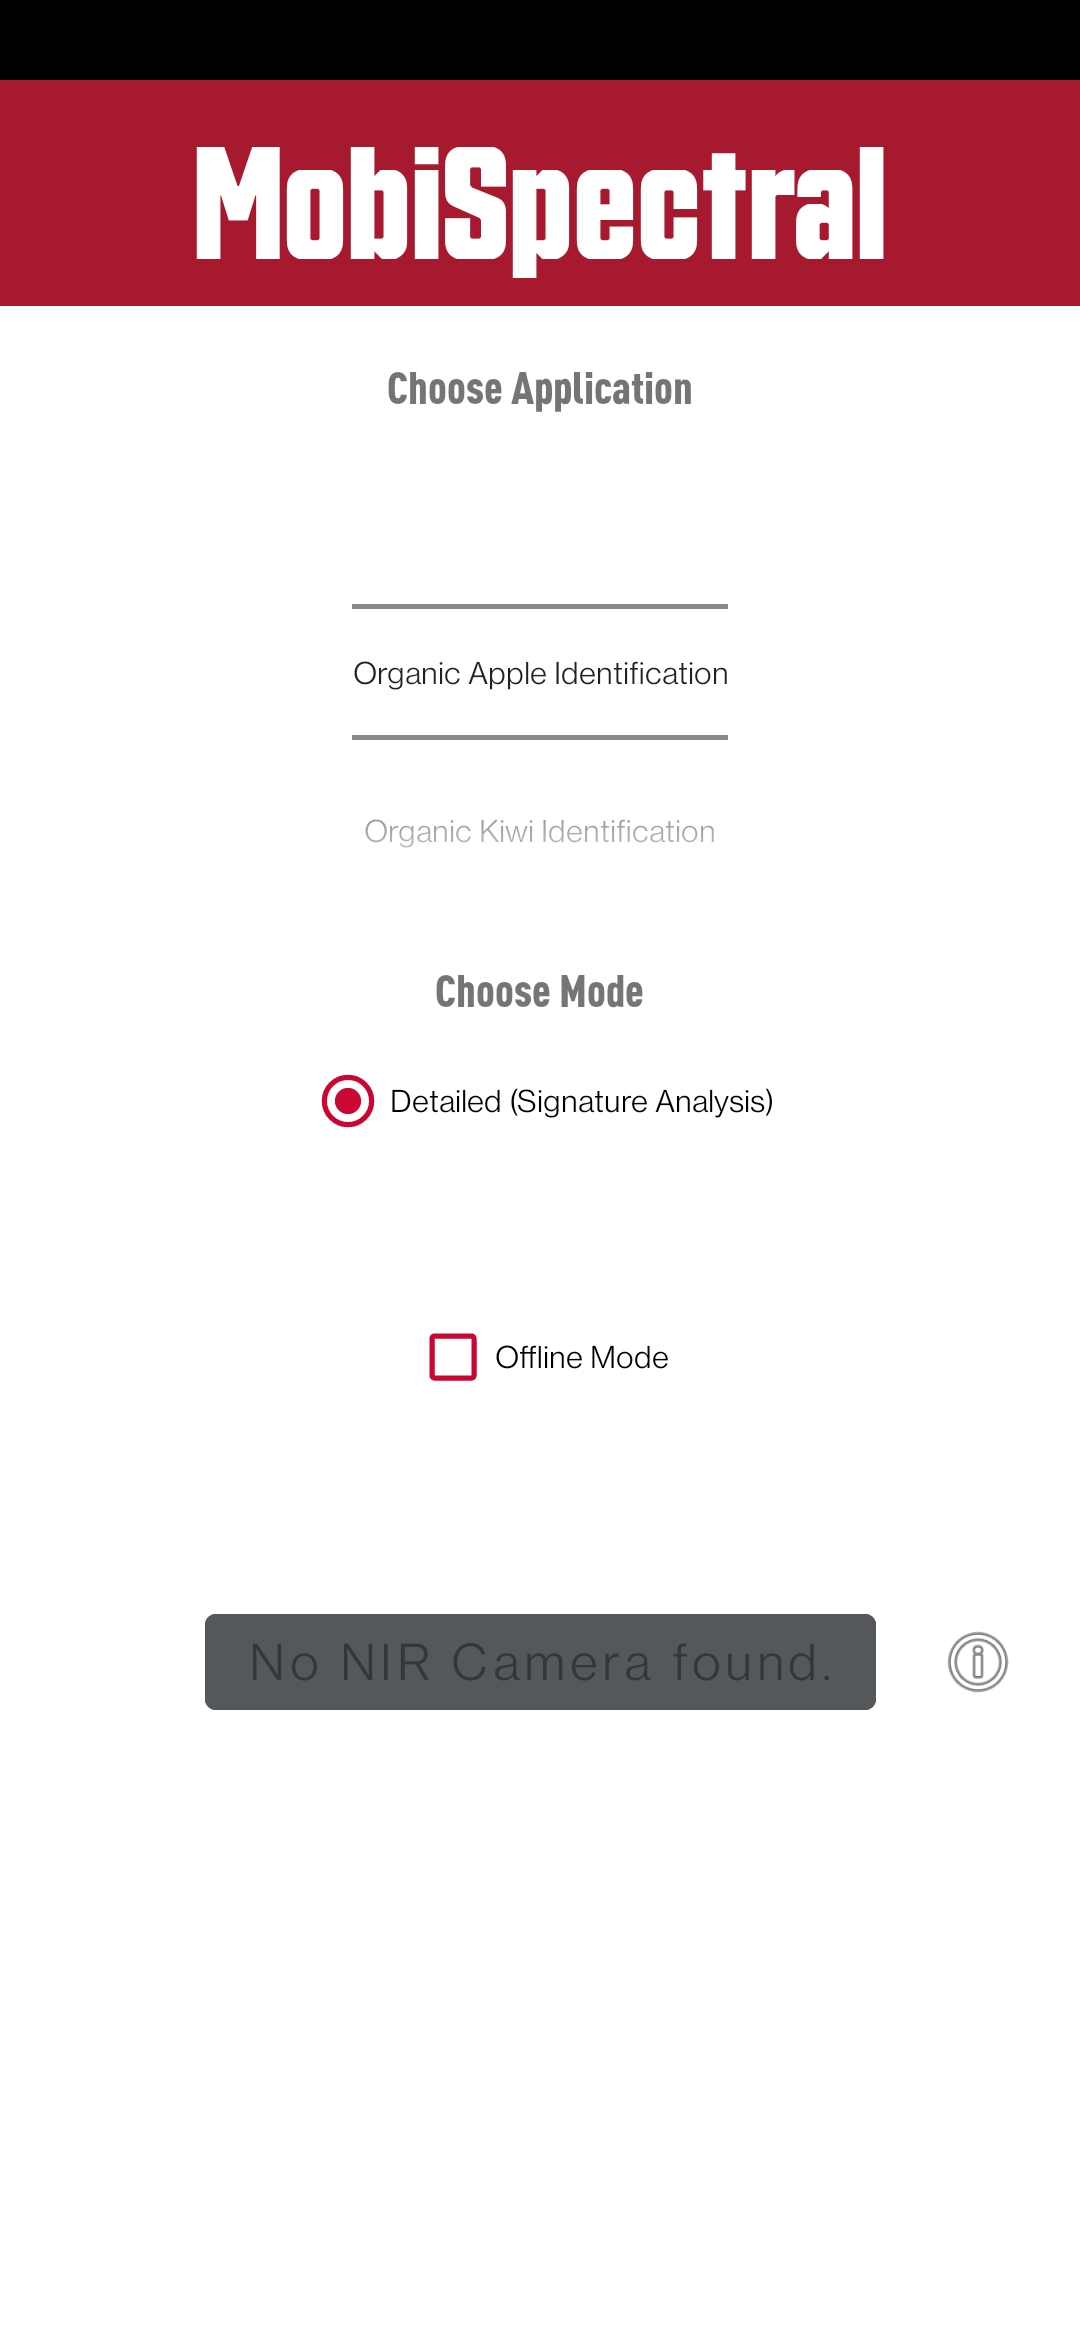
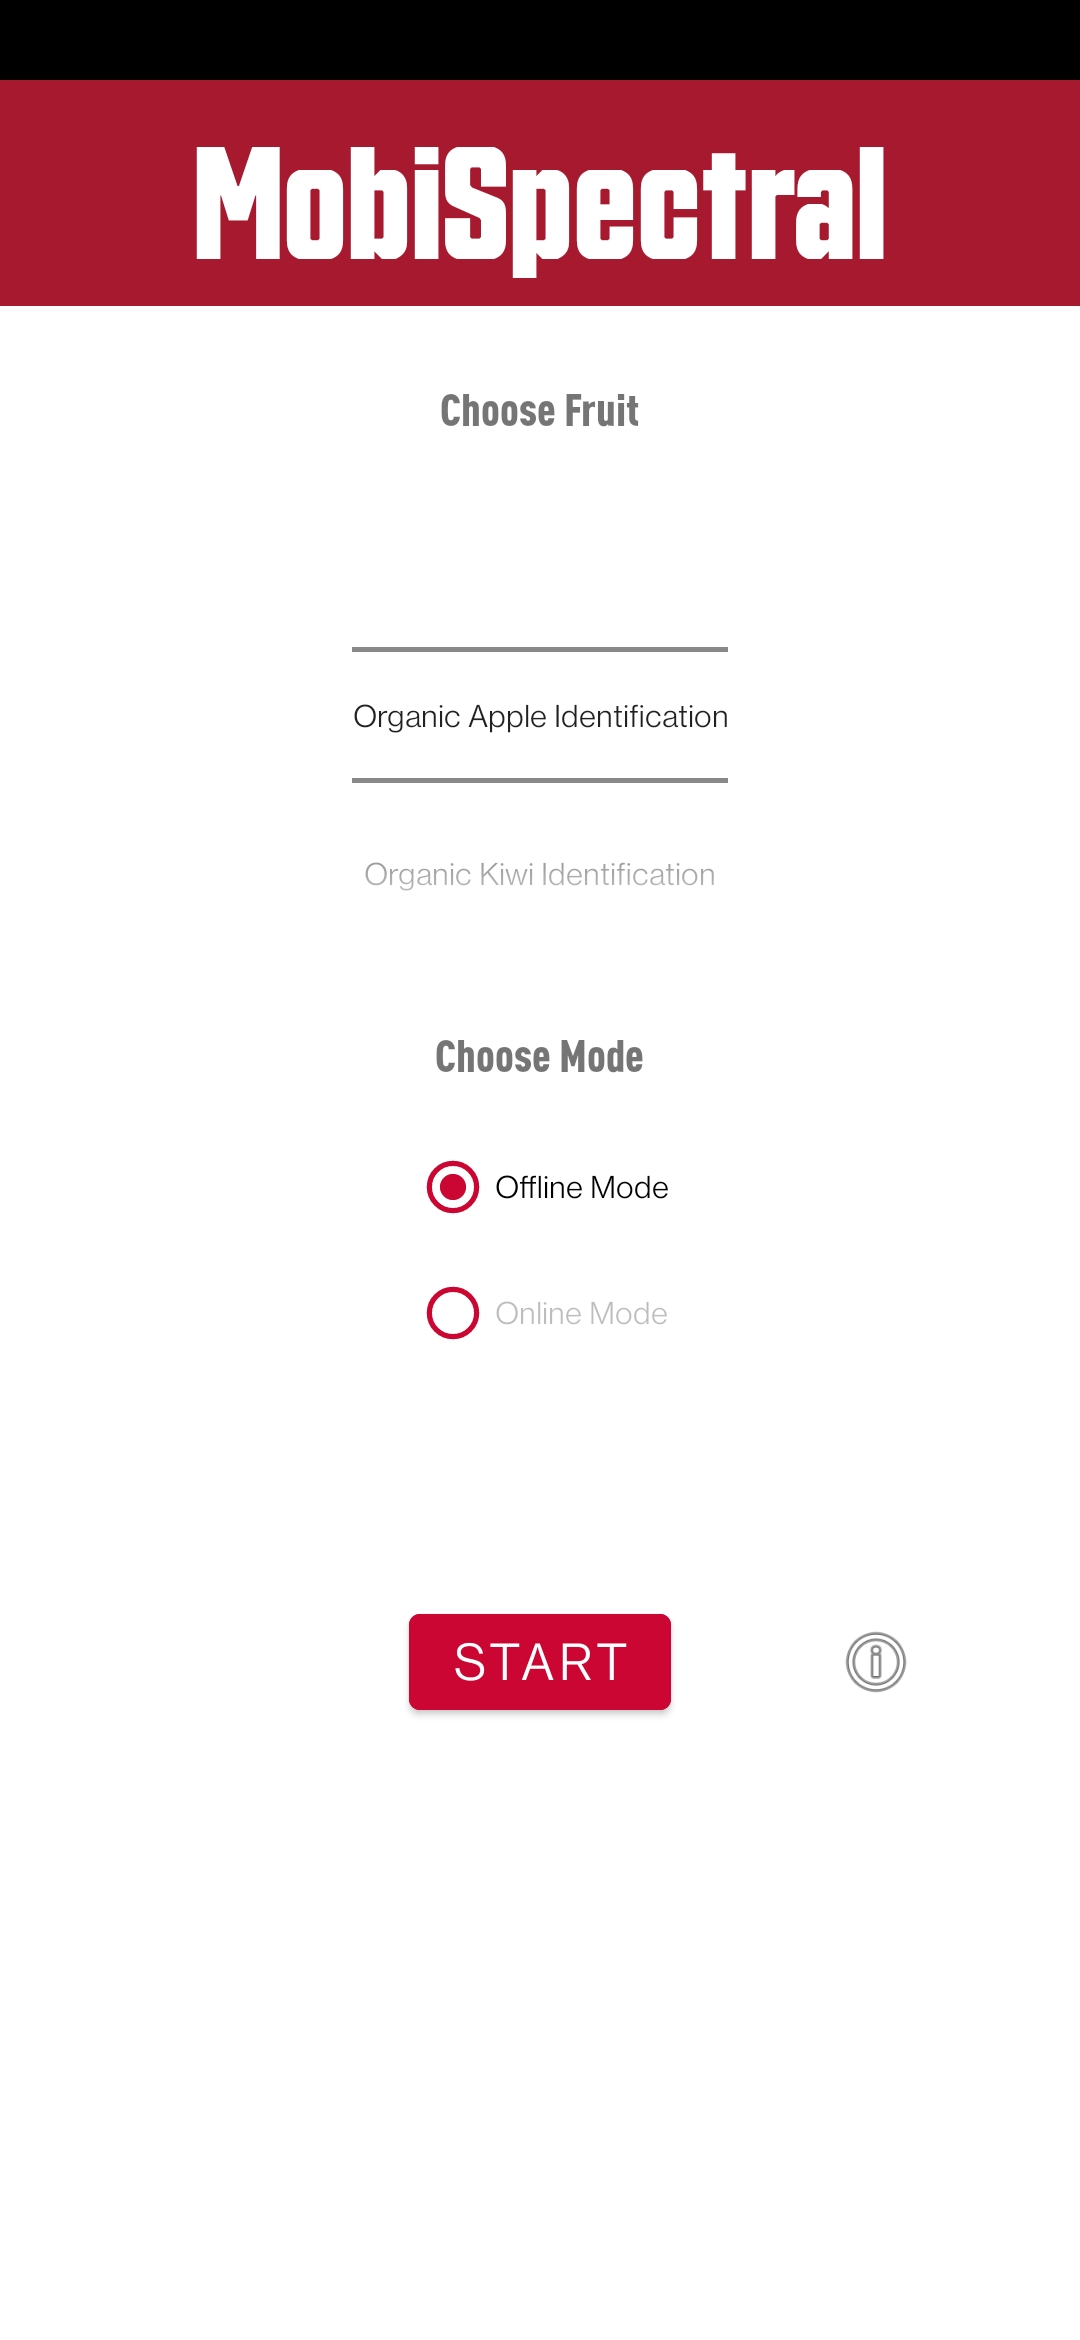
updated the UI to be easier to understand

diff --git a/README.md b/README.md
@@ -74,7 +74,7 @@ The application screenshots below are captured using a smartphone without an NIR
 |                                                                            |                                                                                    |                                                                                  |
 |:--------------------------------------------------------------------------:|:----------------------------------------------------------------------------------:|:--------------------------------------------------------------------------------:|
 | <img src="images/MainPage(NoNIR).jpg" alt="MainPage(NoNIR)" width="200" /> |        <img src="images/MainPageOffline.jpg" alt="MainPage" width="200" />         |         <img src="images/CameraOffline.jpg" alt="Camera" width="200" />          |
-|                    Main Page if No NIR Camera is found                     |                               Selecting Offline Mode                               |                              Gallery Opening Intent                              |
+|                               No NIR Camera                                |                               Selecting Offline Mode                               |                              Gallery Opening Intent                              |
 |     <img src="images/ImageLoader.jpg" alt="ImageLoader" width="200" />     | <img src="images/Reconstruction(Detailed).jpg" alt="Reconstruction" width="200" /> | <img src="images/SignatureAnalysis(Detailed).jpg" alt="Signature" width="200" /> |
 |                              Selecting Images                              |                                   Reconstruction                                   |                   Classification Result and Signature Analysis                   |
 
